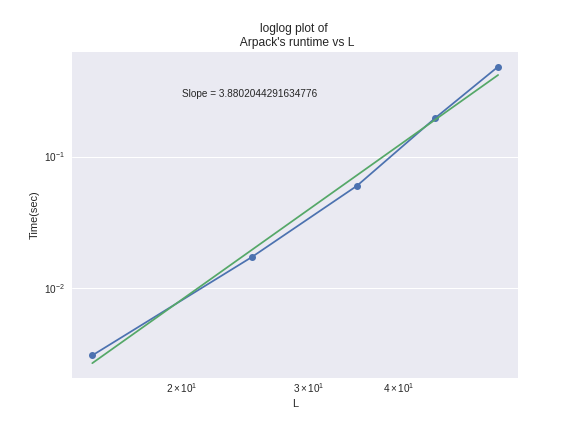
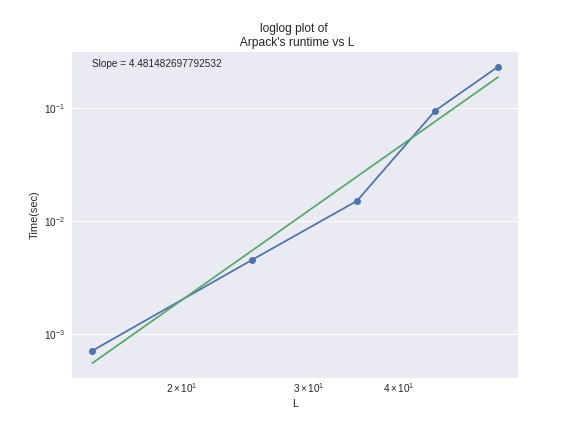
Timing_data_from_wheeler_added

diff --git a/apssamp.tex b/apssamp.tex
@@ -233,15 +233,35 @@ In the code we decided to go with $\sigma = 0.1$ a large enough value which did 
 
 \section{\label{sec:Timing data} Timing data}
 
-\textbf{I got lazy and did the timing runs on my laptop. After looking at the data I realize that Lapack is around 10 times slower on my laptop when compared to wheeler. The timing data for matrix generation and Arpack is almost same on both my laptop and wheeler. This does not change the conclusions but gives the wrong impression that dggev will start taking more 30 minutes  to run much before $L \approx 80$, and that LU decomposition will overtake matrix generation to become the bottleneck very quickly. I am working on timing the same code on wheeler so that we have better data, but for now just divide the LU and dggev timings by 10 to get an idea what we will see on wheeler.}
+% \textbf{I got lazy and did the timing runs on my laptop. After looking at the data I realize that Lapack is around 10 times slower on my laptop when compared to wheeler. The timing data for matrix generation and Arpack is almost same on both my laptop and wheeler. This does not change the conclusions but gives the wrong impression that dggev will start taking more 30 minutes  to run much before $L \approx 80$, and that LU decomposition will overtake matrix generation to become the bottleneck very quickly. I am working on timing the same code on wheeler so that we have better data, but for now just divide the LU and dggev timings by 10 to get an idea what we will see on wheeler.}
 
-Table~\ref{table:timing_data} shows the final timing data. One can see that the total time taken by Arpack + LU decomposition is much less than the time taken by dggev. Both LU decomposition and dggev scale as $O(L^6)$ but for any given $L$ the former is around 40 times faster. Matrix generation is the bottleneck when we are using Arpack.
+Table~\ref{table:timing_data} shows the final timing data. One can see that the total time taken by Arpack + LU decomposition is much less than the time taken by dggev. Both LU decomposition and dggev scale as $O(L^6)$ but for any given $L$ the former is much faster. Matrix generation is the bottleneck when we are using Arpack.
+
+Most probably because of different Lapack version, dggev is faster on my laptop than on wheeler while LU decomposition is 10 times faster on wheeler as expected, this can be seen by comparing tables I and II. This does not change our conclusion that using Arpack is much faster for large values of $L$.
 
 \begin{table}[h!]
   \centering
   \begin{tabular}{||c | c | c | c| c||}
     \hline
-    L  & Matrix generation(s) & Arpack(s) & LU (s)       & dggev(s)  \\ [0.5ex]
+    L  & Mat gen(s) & Arpack(s) & LU (s)      & dggev(s)       \\ [0.5ex]
+    \hline\hline
+    15 & 0.071161             & 0.000712  & 3.26000e-04 & 4.52780000e-02 \\
+    25 & 0.640234             & 0.004513  & 4.48400e-03 & 1.46575600e+00 \\
+    35 & 2.72389              & 0.015021  & 3.04950e-02 & 2.27840010e+01 \\
+    45 & 9.188617             & 0.094585  & 1.22304e-01 & 1.50830308e+02 \\
+    55 & 21.931774            & 0.230849  & 4.14148e-01 & 6.44315238e+02 \\ [1ex]
+    \hline
+    \label{table:timing_data}
+  \end{tabular}
+  \caption{Timing data for Matrix generation, Arpack, LU decomposition and Lapack's dggev on wheeler (Intel(R) Xeon(R) CPU E5-2680 v3 @ 2.50GHz)}
+\end{table}
+
+
+\begin{table}[h!]
+  \centering
+  \begin{tabular}{||c | c | c | c| c||}
+    \hline
+    L  & Mat gen(s) & Arpack(s) & LU (s)       & dggev(s)  \\ [0.5ex]
     \hline\hline
     15 & 0.087328             & 0.003085  & 3.623000e-03 & 0.104892   \\
     25 & 0.63935              & 0.017232  & 4.547300e-02 & 1.806011   \\
@@ -249,10 +269,10 @@ Table~\ref{table:timing_data} shows the final timing data. One can see that the 
     45 & 10.355544            & 0.196789  & 2.010160     & 74.043790  \\
     55 & 21.472547            & 0.481778  & 6.144312     & 275.292717 \\ [1ex]
     \hline
+    \label{table:timing_data_laptop}
   \end{tabular}
-  \label{table:timing_data}
+  \caption{Timing data for Matrix generation, Arpack, LU decomposition and Lapack's dggev on a laptop (Intel(R) Core(TM) i5-7200U CPU @ 2.50GHz)}
 \end{table}
-
 
 \section{Appendixes}
 
